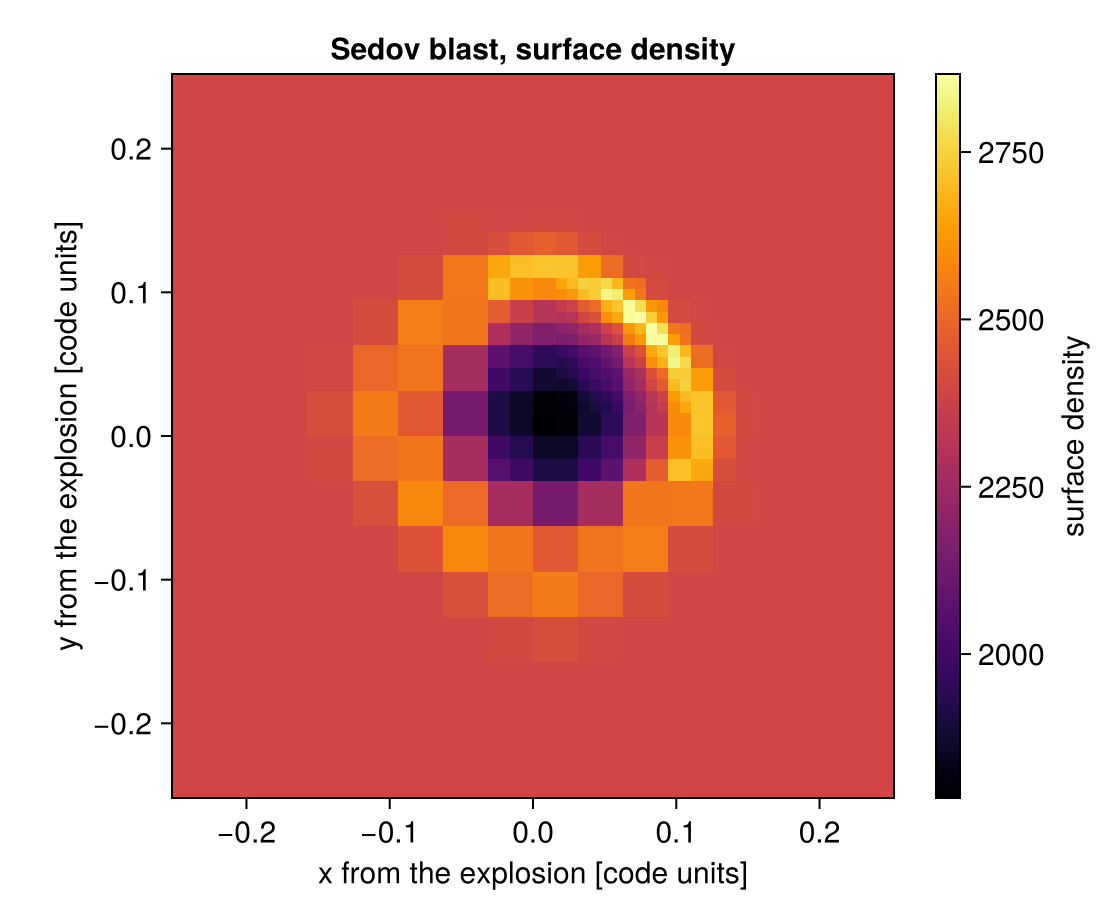
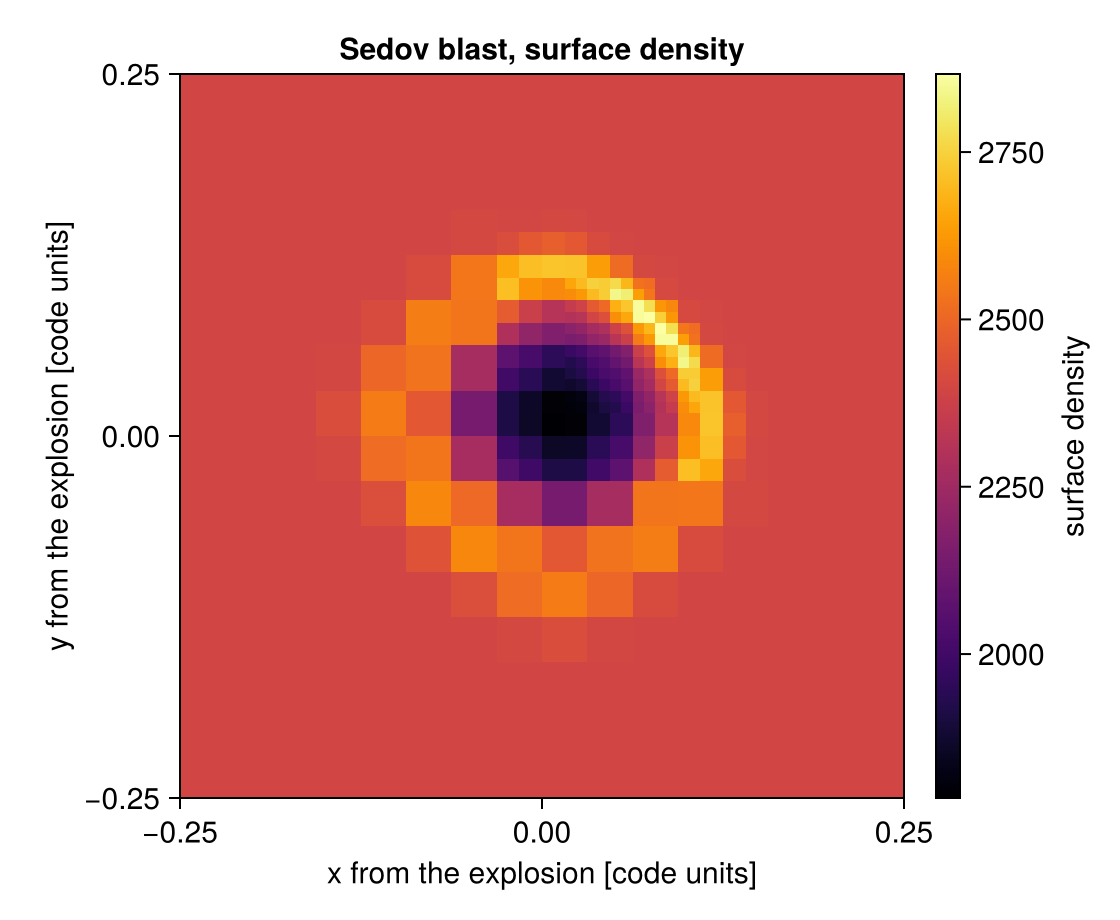
periodic_recenter: roll a projection around the boundary
projection still bins onto the box as stored, so a structure on a face stays
split across opposite edges of the map. This rolls the finished map instead,
which is exact for an axis-aligned projection because a whole-pixel shift is a
translation of the box: the values come out a permutation of the originals, so
any total is untouched, and extent is relabelled to measure from the new centre.

Kept separate from projection deliberately. Nothing is re-binned, and a separate
step makes that visible.

Two things were wrong in the first version and are now handled:

A projection does not record which axis it looked along. `direction` on the maps
object only says axis-aligned or off-axis, and all three axis-aligned views
return identical extent and ranges on a cubic box, so it cannot be inferred. The
caller passes the same direction they gave projection; the first version assumed
x-y for every map and would have rolled the wrong axes for :x and :y.

Off-axis projections are refused. Rolling works only because a pixel shift of an
axis-aligned map is a lattice translation; a tilted camera plane has no such
shift, so the result would be wrong rather than approximate.

The home page and the periodic-boxes page now use this instead of a raw
circshift, which could not fix the axis labels.

diff --git a/docs/src/periodic_boxes.md b/docs/src/periodic_boxes.md
@@ -86,17 +86,23 @@ is wrong rather than an error:
 | function | what happens |
 |---|---|
 | a cylinder's **height** cut | cylinders wrap in their two radial axes, never along their own axis |
-| `projection` | the map shows the box as stored, so a structure on a face appears split across opposite edges |
+| `projection` | still bins onto the box as stored; roll the finished map with `periodic_recenter` (axis-aligned only) |
 | `clumpfind` | a structure crossing a face is found as two |
 | `covering_grid`, `profile` | bins near a face are incomplete |
 
-For projections there is a simple workaround, since the map is a regular grid: roll it. This is
-exact on a periodic axis.
+For projections, roll the finished map with `periodic_recenter`. A whole-pixel shift of an
+axis-aligned map is exactly a translation of the box, so no value changes and no interpolation
+happens; only the frame moves, and `extent` is relabelled to measure from the new centre.
 
 ```julia
-p  = projection(gas, :sd, :Msol_pc2)
-sd = circshift(p.maps[:sd], size(p.maps[:sd]) .÷ 2)    # move the origin to the centre
+p = projection(gas, :sd, :Msol_pc2)
+q = periodic_recenter(p, center=[0., 0., 0.])          # direction=:z by default
+heatmap(q.extent[1:2], q.extent[3:4], q.maps[:sd])
 ```
+
+Pass the same `direction` you gave `projection`: a projection does not record which axis it looked
+along, so it cannot be inferred. **Off-axis projections are refused**, because a tilted camera plane
+has no pixel shift that corresponds to a periodic translation.
 
 For the region shapes that do not yet wrap, place the centre away from a face where you can. Where
 you cannot, build the mask

diff --git a/docs/src/index.md b/docs/src/index.md
@@ -51,8 +51,8 @@ info = getinfo(path, output=7)            # the last of its seven snapshots
 gas  = gethydro(info)
 p    = projection(gas, :sd, :Msol_pc2)    # a 128x128 surface-density map
 
-sd = circshift(p.maps[:sd], size(p.maps[:sd]) .÷ 2)   # centre the blast, see below
-heatmap(sd; colormap=:inferno)
+q  = periodic_recenter(p, center=[0., 0., 0.])         # centre the blast, see below
+heatmap(q.extent[1:2], q.extent[3:4], q.maps[:sd]; colormap=:inferno)
 ```
 
 ![The Sedov blast, projected to surface density](assets/home/first_projection.png)
@@ -62,8 +62,8 @@ heatmap(sd; colormap=:inferno)
 
 Two details of this particular run: snapshot 1 is the moment before the blast, a uniform box, which
 is why the example asks for 7; and RAMSES's own Sedov setup puts the explosion at the *origin* of a
-periodic box, simulating one octant of the sphere, so the shell straddles the corners until you roll
-the map by half a box. `getinfo` reports `boundaries: periodic` for exactly this reason, but Mera
+periodic box, simulating one octant of the sphere, so the shell straddles the corners until
+`periodic_recenter` rolls it around the boundary, which is exact on a periodic grid. `getinfo` reports `boundaries: periodic` for exactly this reason, but Mera
 never wraps coordinates on its own: see [Periodic boxes](reproducibility.md#Periodic-boxes).
 
 With a simulation of your own, point `getinfo` at the output folder and continue the same way:

diff --git a/docs/src/api/projections.md b/docs/src/api/projections.md
@@ -10,6 +10,18 @@ Functions for creating 2D projections from 3D simulation data.
 
 The `projection` function uses Julia's multiple dispatch to provide specialized implementations for different data types. Since the complete API documentation is extensive, this section provides focused guidance for each data type.
 
+### Periodic boxes
+
+On a periodic run a structure sitting on a box face is split across opposite edges of the map.
+[`periodic_recenter`](@ref) rolls a finished projection around the boundary so it appears whole,
+which is exact for an axis-aligned map because a whole-pixel shift is a translation of the box.
+
+```@docs
+periodic_recenter
+```
+
+See [Periodic Boxes](../periodic_boxes.md) for what else needs care on a wrapping run.
+
 ### Performance & Threading Functions
 
 - [`benchmark_projection_hydro`](@ref): Benchmark projection performance for hydro data
